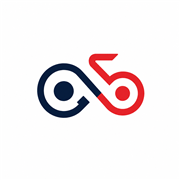
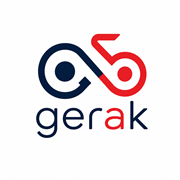
Restore full branding and center documents

Changed region(s): [[0.1944, 0.1667, 0.8333, 0.7778]]

diff --git a/src/lib/watermark.ts b/src/lib/watermark.ts
@@ -4,6 +4,41 @@ const WATERMARK_TEXT = 'FOR GERAK DRIVER VERIFICATION USE ONLY';
 const WATERMARK_ANGLE_DEG = 26;
 const WATERMARK_Y_FRACS = [0.15, 0.45, 0.75];
 
+// Screenshots of documents often include a large white browser/camera canvas.
+// Trim only near-white/transparent pixels connected to the outside edge so
+// the actual document is centred when opened, without cutting into its pale
+// printed background.
+function contentBounds(bitmap: ImageBitmap) {
+  const probe = document.createElement('canvas');
+  probe.width = bitmap.width;
+  probe.height = bitmap.height;
+  const ctx = probe.getContext('2d', { willReadFrequently: true });
+  if (!ctx) return { x: 0, y: 0, width: bitmap.width, height: bitmap.height };
+  ctx.drawImage(bitmap, 0, 0);
+  const { data } = ctx.getImageData(0, 0, bitmap.width, bitmap.height);
+  const isContent = (x: number, y: number) => {
+    const i = (y * bitmap.width + x) * 4;
+    return data[i + 3] > 12 && (data[i] < 246 || data[i + 1] < 246 || data[i + 2] < 246);
+  };
+  let left = 0, right = bitmap.width - 1, top = 0, bottom = bitmap.height - 1;
+  const rowHasContent = (y: number) => {
+    for (let x = 0; x < bitmap.width; x += 2) if (isContent(x, y)) return true;
+    return false;
+  };
+  const colHasContent = (x: number) => {
+    for (let y = 0; y < bitmap.height; y += 2) if (isContent(x, y)) return true;
+    return false;
+  };
+  while (top < bottom && !rowHasContent(top)) top++;
+  while (bottom > top && !rowHasContent(bottom)) bottom--;
+  while (left < right && !colHasContent(left)) left++;
+  while (right > left && !colHasContent(right)) right--;
+  const pad = Math.max(4, Math.round(Math.min(bitmap.width, bitmap.height) * 0.01));
+  left = Math.max(0, left - pad); top = Math.max(0, top - pad);
+  right = Math.min(bitmap.width - 1, right + pad); bottom = Math.min(bitmap.height - 1, bottom + pad);
+  return { x: left, y: top, width: right - left + 1, height: bottom - top + 1 };
+}
+
 async function stampPdf(file: File, text: string): Promise<File> {
   const { PDFDocument, StandardFonts, rgb, degrees } = await import('pdf-lib');
   const bytes = await file.arrayBuffer();
@@ -18,8 +53,9 @@ async function stampPdf(file: File, text: string): Promise<File> {
     const targetWidth = width * 0.85;
     const fontSize    = Math.max(8, Math.min(40, baseSize * (targetWidth / rawWidth)));
     WATERMARK_Y_FRACS.forEach(yFrac => {
+      const textWidth = wmFont.widthOfTextAtSize(text, fontSize);
       page.drawText(text, {
-        x: width * 0.06,
+        x: (width - textWidth) / 2,
         y: height * yFrac,
         size: fontSize,
         font: wmFont,
@@ -37,18 +73,19 @@ async function stampPdf(file: File, text: string): Promise<File> {
 
 async function stampImage(file: File, text: string): Promise<File> {
   const bitmap = await createImageBitmap(file);
+  const bounds = contentBounds(bitmap);
   // Cap resolution like Jubah's compressImage does — re-encoding at full
   // original resolution can produce a LARGER file than the input (e.g. a
   // phone photo saved at a lower JPEG quality than ours), enough to exceed
   // the storage bucket's size limit even though the original upload fit.
   const maxDim = 1600;
-  const scale  = Math.min(1, maxDim / Math.max(bitmap.width, bitmap.height));
+  const scale  = Math.min(1, maxDim / Math.max(bounds.width, bounds.height));
   const canvas = document.createElement('canvas');
-  canvas.width  = Math.round(bitmap.width  * scale);
-  canvas.height = Math.round(bitmap.height * scale);
+  canvas.width  = Math.round(bounds.width * scale);
+  canvas.height = Math.round(bounds.height * scale);
   const ctx = canvas.getContext('2d');
   if (!ctx) return file;
-  ctx.drawImage(bitmap, 0, 0, canvas.width, canvas.height);
+  ctx.drawImage(bitmap, bounds.x, bounds.y, bounds.width, bounds.height, 0, 0, canvas.width, canvas.height);
 
   const baseSize    = 20;
   ctx.font = `bold ${baseSize}px sans-serif`;
@@ -60,8 +97,10 @@ async function stampImage(file: File, text: string): Promise<File> {
 
   WATERMARK_Y_FRACS.forEach(yFrac => {
     ctx.save();
-    ctx.translate(canvas.width * 0.06, canvas.height * yFrac);
+    ctx.translate(canvas.width / 2, canvas.height * yFrac);
     ctx.rotate(-WATERMARK_ANGLE_DEG * Math.PI / 180);
+    ctx.textAlign = 'center';
+    ctx.textBaseline = 'middle';
     ctx.fillText(text, 0, 0);
     ctx.restore();
   });

diff --git a/supabase/functions/send-document-verification-email/index.ts b/supabase/functions/send-document-verification-email/index.ts
@@ -114,7 +114,7 @@ async function sendVerificationEmail(profile: Profile, decision: 'approved' | 'r
 
   const html = `
   <div style="font-family:-apple-system,Helvetica,Arial,sans-serif;max-width:480px;margin:0 auto;color:#1e293b;">
-    <div style="background:#fff;padding:18px 26px;border:1px solid #f1f5f9;border-radius:14px 14px 0 0;text-align:center;"><img src="https://www.gerakmy.com/gerak-symbol.png" alt="Gerak" width="92" style="display:block;width:92px;height:auto;margin:0 auto;"><p style="font-size:11px;color:#94a3b8;margin:6px 0 0;">Smart Campus Platform</p></div>
+    <div style="background:#fff;padding:18px 26px;border:1px solid #f1f5f9;border-radius:14px 14px 0 0;text-align:center;"><img src="https://www.gerakmy.com/gerak-brand.png" alt="Gerak" width="120" style="display:block;width:120px;height:auto;margin:0 auto;"><p style="font-size:11px;color:#94a3b8;margin:6px 0 0;">Smart Campus Platform</p></div>
     <div style="background:#fff;border:1px solid #f1f5f9;border-top:none;border-radius:0 0 14px 14px;padding:28px 26px 24px;">
       <p style="font-size:11px;font-weight:600;color:#94a3b8;margin:0 0 8px;">Document verification · ${roleLabel}</p>
       <h1 style="font-size:20px;margin:0 0 10px;">${approved ? 'Documents approved' : 'Documents need attention'}</h1>

diff --git a/supabase/functions/send-jubah-receipt-email/index.ts b/supabase/functions/send-jubah-receipt-email/index.ts
@@ -168,7 +168,7 @@ async function sendReceiptEmail(admin: ReturnType<typeof createClient>, booking:
     <div style="background:#fff;padding:18px 24px;border:1px solid #f1f5f9;border-radius:12px 12px 0 0;text-align:center;">
       <table role="presentation" cellpadding="0" cellspacing="0" border="0" style="border-collapse: collapse;"><tr>
         ${appBaseUrl ? `<td style="padding-right: 10px; vertical-align: middle;"><img src="${appBaseUrl}/icon-192-light.png" width="28" height="28" alt="" style="display: block; border-radius: 7px;" /></td>` : ''}
-        <td style="vertical-align:middle;text-align:center;"><img src="https://www.gerakmy.com/gerak-symbol.png" alt="Gerak" width="92" style="display:block;width:92px;height:auto;margin:0 auto;"><p style="font-size:11px;color:#94a3b8;margin:6px 0 0;">Smart Campus Platform</p></td>
+        <td style="vertical-align:middle;text-align:center;"><img src="https://www.gerakmy.com/gerak-brand.png" alt="Gerak" width="120" style="display:block;width:120px;height:auto;margin:0 auto;"><p style="font-size:11px;color:#94a3b8;margin:6px 0 0;">Smart Campus Platform</p></td>
       </tr></table>
     </div>
     <div style="border: 1px solid #f1f5f9; border-top: none; border-radius: 0 0 12px 12px; padding: 24px;">

diff --git a/supabase/functions/send-staff-invite-email/index.ts b/supabase/functions/send-staff-invite-email/index.ts
@@ -135,7 +135,7 @@ async function sendInviteEmail(invite: Invite, inviterName: string) {
   const html = `
   <div style="font-family: -apple-system, Helvetica, Arial, sans-serif; max-width: 480px; margin: 0 auto; color: #1e293b;">
     <div style="background:#fff;padding:18px 26px;border:1px solid #f1f5f9;border-radius:14px 14px 0 0;text-align:center;">
-      <img src="https://www.gerakmy.com/gerak-symbol.png" alt="Gerak" width="92" style="display:block;width:92px;height:auto;margin:0 auto;"><p style="font-size:11px;color:#94a3b8;margin:6px 0 0;">Smart Campus Platform</p>
+      <img src="https://www.gerakmy.com/gerak-brand.png" alt="Gerak" width="120" style="display:block;width:120px;height:auto;margin:0 auto;"><p style="font-size:11px;color:#94a3b8;margin:6px 0 0;">Smart Campus Platform</p>
     </div>
     <div style="background: #ffffff; border: 1px solid #f1f5f9; border-top: none; border-radius: 0 0 14px 14px; padding: 28px 26px 24px;">
       <span style="display:inline-block;font-size:10.5px;font-weight:700;letter-spacing:0.06em;text-transform:uppercase;color:#dc2626;background:rgba(220,38,38,0.08);padding:4px 10px;border-radius:999px;margin-bottom:14px;">Staff Invite</span>

diff --git a/src/lib/receiptPdf.ts b/src/lib/receiptPdf.ts
@@ -28,7 +28,7 @@ const row = (label: string, value: string, cls = '') =>
 // itself has parsed; an external image load isn't guaranteed to finish
 // first; and would leave a blank square in the printed receipt. Inline SVG
 // has no separate request to race against.
-const LOGO_SVG = `<img src="/gerak-symbol.png" alt="Gerak" style="width:58px;height:auto;display:block"/>`;
+const LOGO_SVG = `<img src="/gerak-brand.png" alt="Gerak" style="width:86px;height:auto;display:block"/>`;
 
 function buildReceiptHtml(doc: ReceiptDoc, extraRows: ReceiptRow[] = []): string {
   const allRows = [...doc.rows, ...extraRows];

diff --git a/src/App.tsx b/src/App.tsx
@@ -91,7 +91,7 @@ const InstallPrompt: React.FC = () => {
         {/* App card */}
         <div className="flex items-center gap-4 px-6 py-4 border-b border-slate-100">
           <div className="w-14 h-14 rounded-2xl overflow-hidden shadow-md shrink-0">
-            <img src="/gerak-symbol.png" alt="Gerak" className="w-full h-full object-cover" />
+            <img src="/gerak-brand.png" alt="Gerak" className="w-full h-full object-cover" />
           </div>
           <p className="text-xs text-slate-400 font-semibold">Smart Campus Platform · UMPSA</p>
         </div>

diff --git a/src/components/Receipt.tsx b/src/components/Receipt.tsx
@@ -16,7 +16,7 @@ export const ReceiptHeader: React.FC<{ meta: ReceiptMeta }> = ({ meta }) => {
   return (
     <div className="flex flex-col gap-1.5">
       <div className="flex items-center gap-2 mb-1">
-        <img src="/gerak-symbol.png" alt="Gerak" className="w-14 h-auto" />
+        <img src="/gerak-brand.png" alt="Gerak" className="w-20 h-auto" />
         <span className="text-[10px] font-normal text-slate-400">Smart Campus Platform</span>
       </div>
       {meta.bookingMethod && MethodIcon && (

diff --git a/src/pages/Profile.tsx b/src/pages/Profile.tsx
@@ -265,7 +265,7 @@ export const Profile: React.FC = () => {
         </div>
 
         <div className="flex flex-col items-center text-center px-6 pt-3 pb-6">
-          <img src="/gerak-symbol.png" alt="Gerak" className="w-40 h-auto" />
+          <img src="/gerak-brand.png" alt="Gerak" className="w-44 h-auto" />
           <p className="text-slate-400 text-xs mt-2 font-normal">Smart Campus Platform</p>
         </div>
 

diff --git a/src/pages/Login.tsx b/src/pages/Login.tsx
@@ -70,7 +70,7 @@ export const Login: React.FC = () => {
 
       {/* Branding */}
       <div className="flex flex-col items-center text-center mt-6 mb-8 px-6">
-        <img src="/gerak-symbol.png" alt="Gerak" className="w-40 h-auto" />
+        <img src="/gerak-brand.png" alt="Gerak" className="w-44 h-auto" />
         <p className="text-slate-400 text-xs mt-2 font-normal">Smart Campus Platform</p>
       </div>
 

diff --git a/src/pages/SplashScreen.tsx b/src/pages/SplashScreen.tsx
@@ -24,7 +24,7 @@ export const SplashScreen: React.FC = () => {
         }}
         className="flex flex-col items-center gap-3"
       >
-        <img src="/gerak-symbol.png" alt="Gerak" className="w-48 h-auto" />
+        <img src="/gerak-brand.png" alt="Gerak" className="w-52 h-auto" />
 
         <p className="text-slate-400 font-normal text-xs m-0">
           Smart Campus Platform

diff --git a/src/pages/Dashboard.tsx b/src/pages/Dashboard.tsx
@@ -131,7 +131,7 @@ export const Dashboard: React.FC = () => {
           </>
         ) : (
           <>
-            <img src="/gerak-symbol.png" alt="Gerak" className="w-24 h-auto" />
+            <img src="/gerak-brand.png" alt="Gerak" className="w-28 h-auto" />
             <p className="text-xs text-slate-400 font-normal mt-2">Smart Campus Platform</p>
           </>
         )}

diff --git a/public/sw.js b/public/sw.js
@@ -1,9 +1,9 @@
-const CACHE_NAME = 'gerak-cache-v444';
+const CACHE_NAME = 'gerak-cache-v445';
 const ASSETS_TO_CACHE = [
   '/',
   '/index.html',
   '/manifest.json',
-  '/gerak-symbol.png',
+  '/gerak-brand.png',
   '/icon-192.png',
   '/icon-512.png'
 ];
